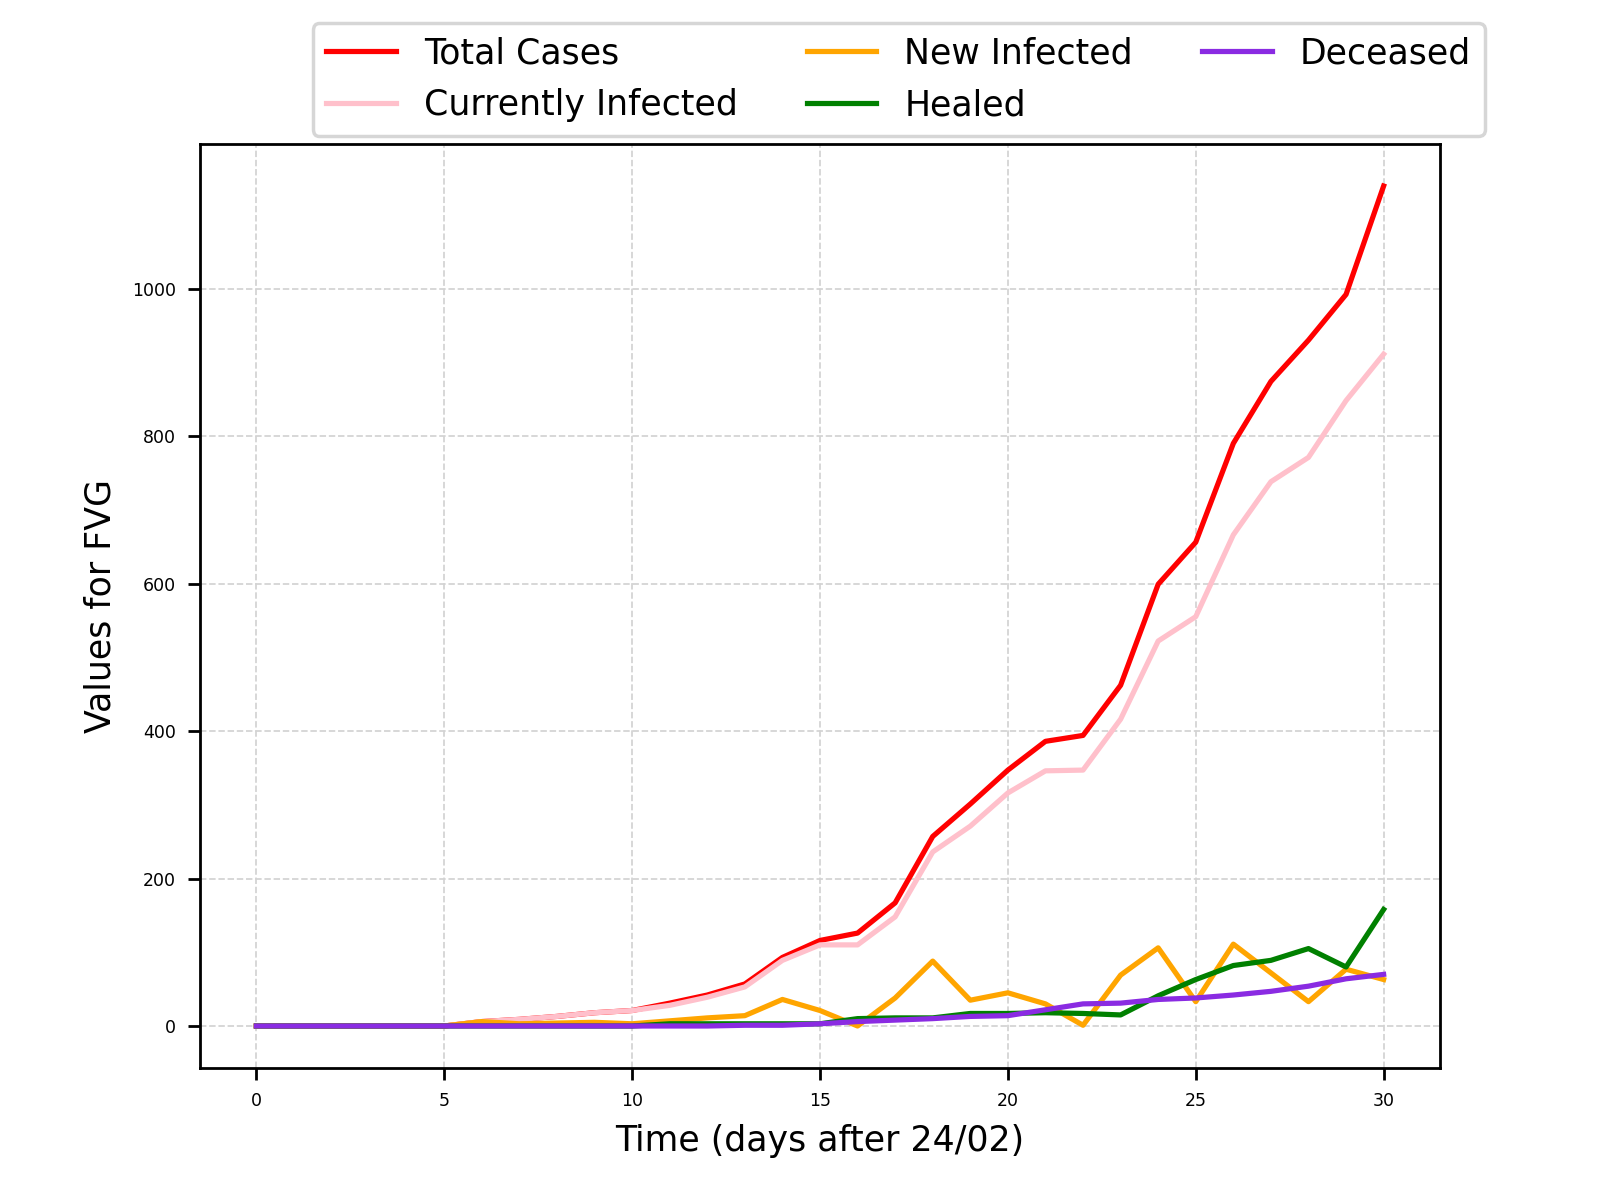
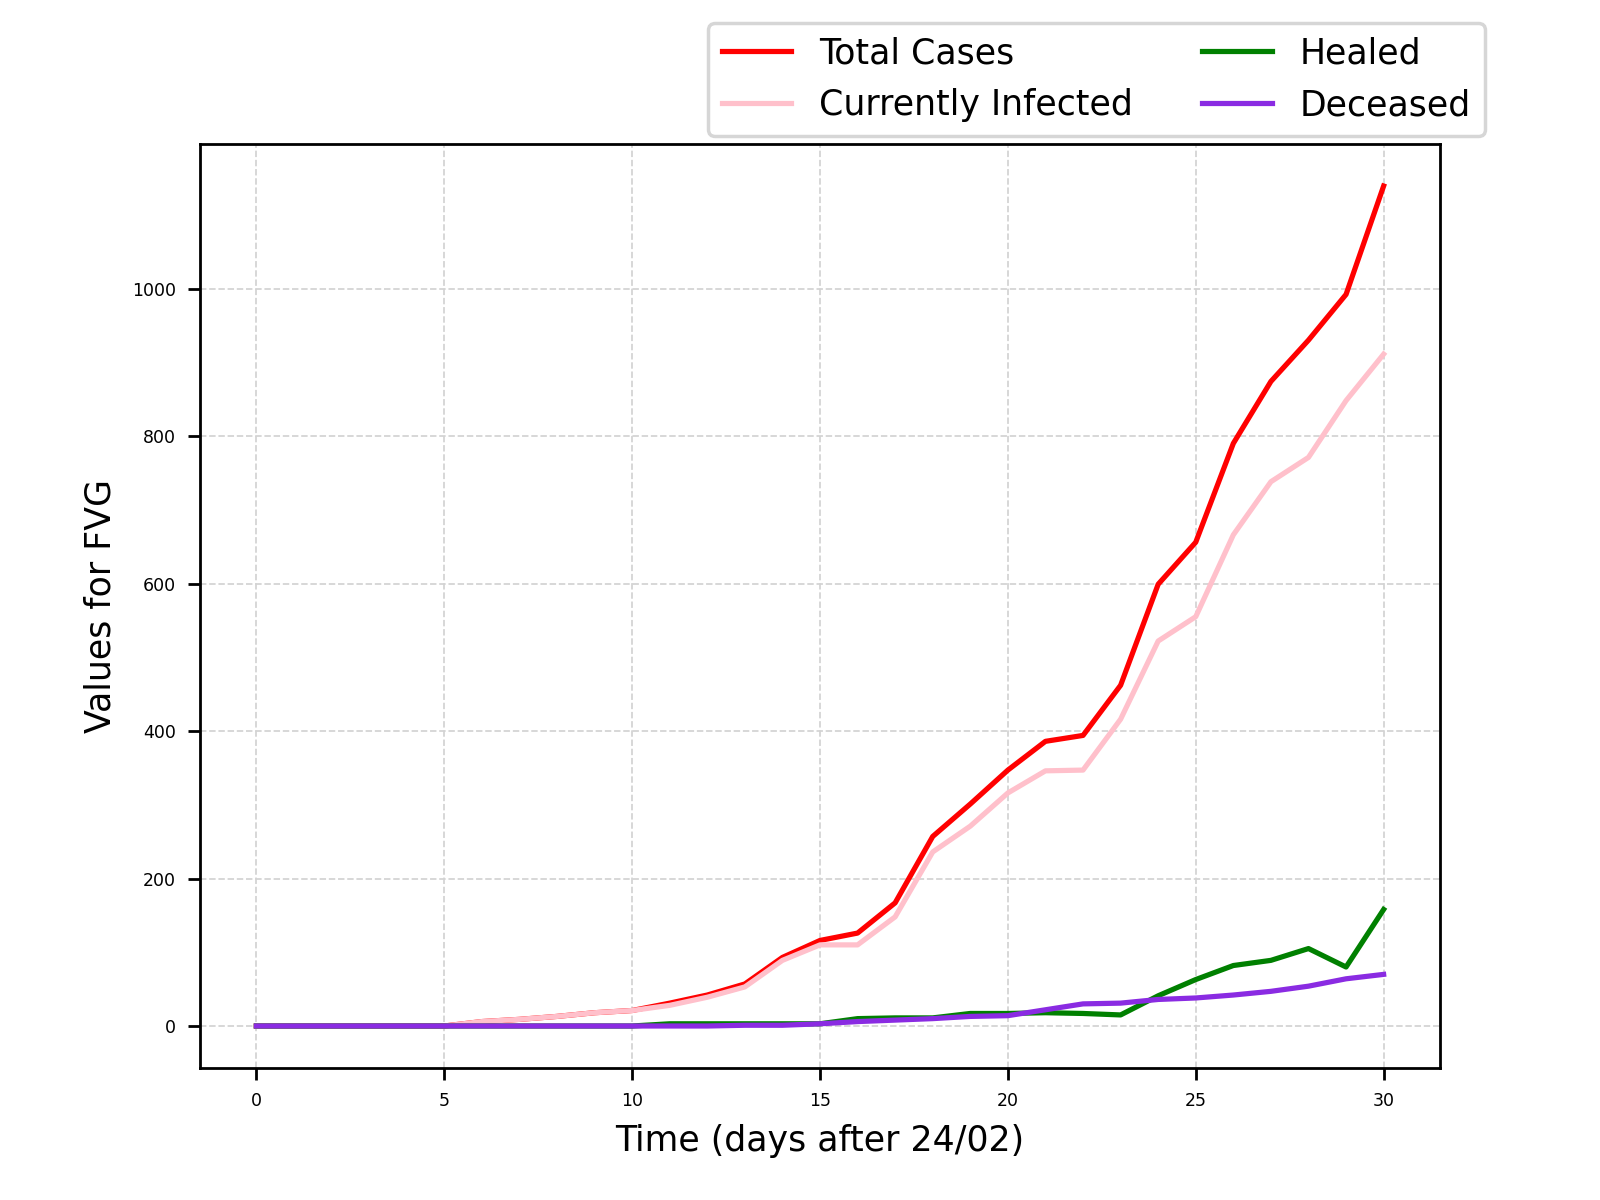
minor

diff --git a/regional.py b/regional.py
@@ -109,10 +109,9 @@ plt.xlabel('Time (days after 24/02)')
 plt.ylabel('Values for FVG')
 plt.plot(days, data_fvg['totale_casi'], c='red', linestyle='-')
 plt.plot(days, data_fvg['totale_attualmente_positivi'], c='pink', linestyle='-')
-plt.plot(days, data_fvg['nuovi_attualmente_positivi'], c='orange', linestyle='-')
 plt.plot(days, data_fvg['dimessi_guariti'], c='green', linestyle='-')
 plt.plot(days, data_fvg['deceduti'], c='blueviolet', linestyle='-')
-plt.legend(('Total Cases','Currently Infected','New Infected','Healed','Deceased'),loc='upper right', bbox_to_anchor=(1.05, 1.15), ncol=3)
+plt.legend(('Total Cases','Currently Infected','Healed','Deceased'),loc='upper right', bbox_to_anchor=(1.05, 1.15), ncol=2)
 plt.grid(color='lightgray', linestyle='--', linewidth=0.5)
 plt.savefig('./fvg/fvg-curves-1.png', dpi = 250)
 plt.clf()
@@ -135,6 +134,16 @@ plt.plot(days, data_fvg['terapia_intensiva'], c='black', linestyle='-')
 plt.legend(('New Infected','In Hospital','Intensive Care'),loc='upper right', bbox_to_anchor=(1.05, 1.15), ncol=3)
 plt.grid(color='lightgray', linestyle='--', linewidth=0.5)
 plt.savefig('./fvg/fvg-curves-3-hospital.png', dpi = 250)
+plt.clf()
+
+plt.xlabel('Time (days after 24/02)')
+plt.ylabel('Values for FVG')
+plt.plot(days, data_fvg['isolamento_domiciliare'], c='yellow', linestyle='-')
+plt.plot(days, data_fvg['totale_ospedalizzati'], c='grey', linestyle='-')
+plt.plot(days, data_fvg['terapia_intensiva'], c='black', linestyle='-')
+plt.legend(('at Home','In Hospital','Intensive Care'),loc='upper right', bbox_to_anchor=(1.05, 1.15), ncol=3)
+plt.grid(color='lightgray', linestyle='--', linewidth=0.5)
+plt.savefig('./fvg/fvg-curves-4-hospital.png', dpi = 250)
 plt.clf()
 
 tot_fvg = dataset.loc[dataset['denominazione_regione']=='Friuli Venezia Giulia']['totale_casi']
